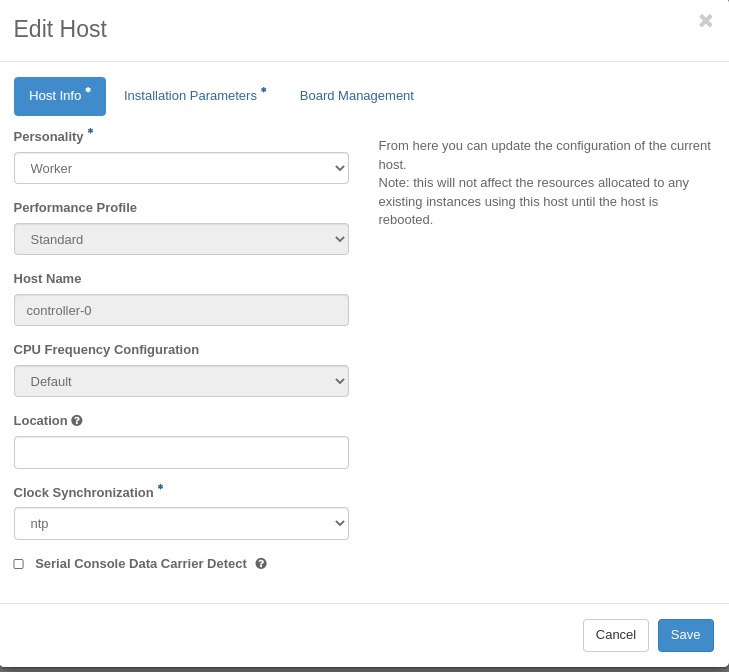
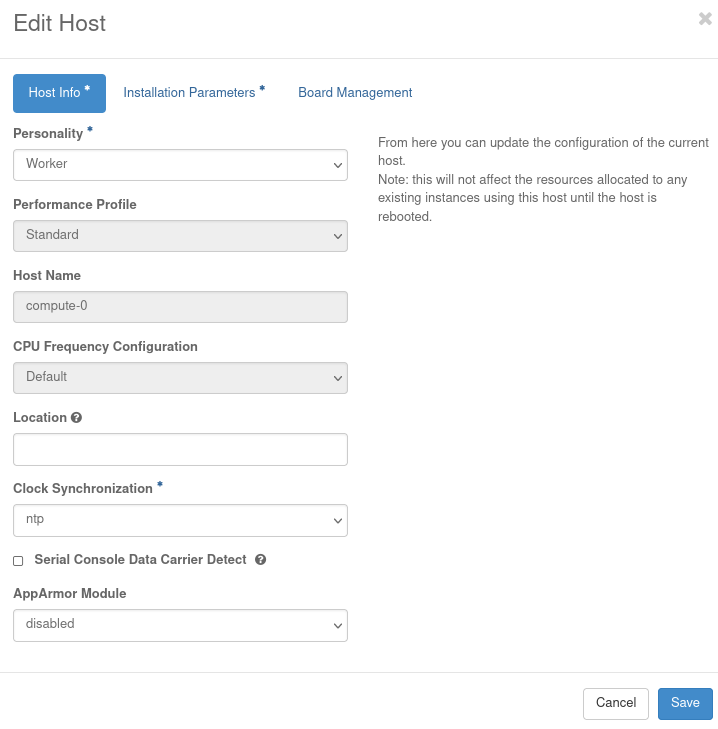
Changes for OS Level Access Controls with AppArmor (dsR8)
Fix conflict.

Story: 2010310
Task: 47841

Depends on https://review.opendev.org/c/starlingx/docs/+/877844

diff --git a/doc/source/security/kubernetes/enable-disable-apparmor-on-a-host-using-horizon-a318ab726396.rst b/doc/source/security/kubernetes/enable-disable-apparmor-on-a-host-using-horizon-a318ab726396.rst
@@ -1,0 +1,24 @@
+.. _enable-disable-apparmor-on-a-host-using-horizon-a318ab726396:
+
+-----------------------------------------------
+Enable/Disable AppArmor on a Host using Horizon
+-----------------------------------------------
+
+To enable or disable AppArmor on the host using Horizon:
+
+#.  Lock the host.
+
+    .. figure:: figures/worker-hosts-2023-3-20_1-46-22.png
+        :width: 800
+
+    .. figure:: figures/confirm-lock-host-2023-3-20_1-55-28.png
+
+#.  Click on Edit Host button. On the "Host Info" tab, enable or disable the
+    AppArmor Module and finally click on "Save".
+
+    .. figure:: figures/edit-host-2023-3-20_1-54-13.png
+
+#.  Unlock the host.
+
+    .. figure:: figures/display-item-2023-3-20_1-58-33.png
+        :width: 800

diff --git a/doc/source/node_management/kubernetes/host_inventory/hosts-tab.rst b/doc/source/node_management/kubernetes/host_inventory/hosts-tab.rst
@@ -171,6 +171,9 @@ A sample **Hosts** tab is illustrated below:
             the serial console cable is disconnected. The server must support
             data carrier detect on the serial console port.
 
+        -   **AppArmor Module**: Choose whether or not to enable Apparmor on
+            the host. The host needs to be locked before changing this value.
+
     -   The **Installation Parameters** tab provides access to installation
         settings. Changes take effect if the host is re-installed. For more
         information, see the document that pertains to your |prod|

diff --git a/doc/source/node_management/kubernetes/host_inventory/overview-tab.rst b/doc/source/node_management/kubernetes/host_inventory/overview-tab.rst
@@ -33,6 +33,8 @@ The following items are included in the summary:
 -   location, as entered by the operator using the Edit Host window
     (see :ref:`Hosts Tab <hosts-tab>`).
 
+-   AppArmor's value on this host, which can be enabled or disabled.
+
 -   time stamps of when the host was created and last updated
 
 -   the host's state

diff --git a/doc/source/security/kubernetes/index-security-kub-81153c1254c3.rst b/doc/source/security/kubernetes/index-security-kub-81153c1254c3.rst
@@ -198,6 +198,7 @@ AppArmor
 
    about-apparmor-ebdab8f1ed87
    enable-disable-apparmor-on-a-host-63a7a184d310
+   enable-disable-apparmor-on-a-host-using-horizon-a318ab726396
    install-security-profiles-operator-1b2f9a0f0108
    profile-management-a8df19c86a5d
    apply-a-profile-to-a-pod-c2fa4d958dec
